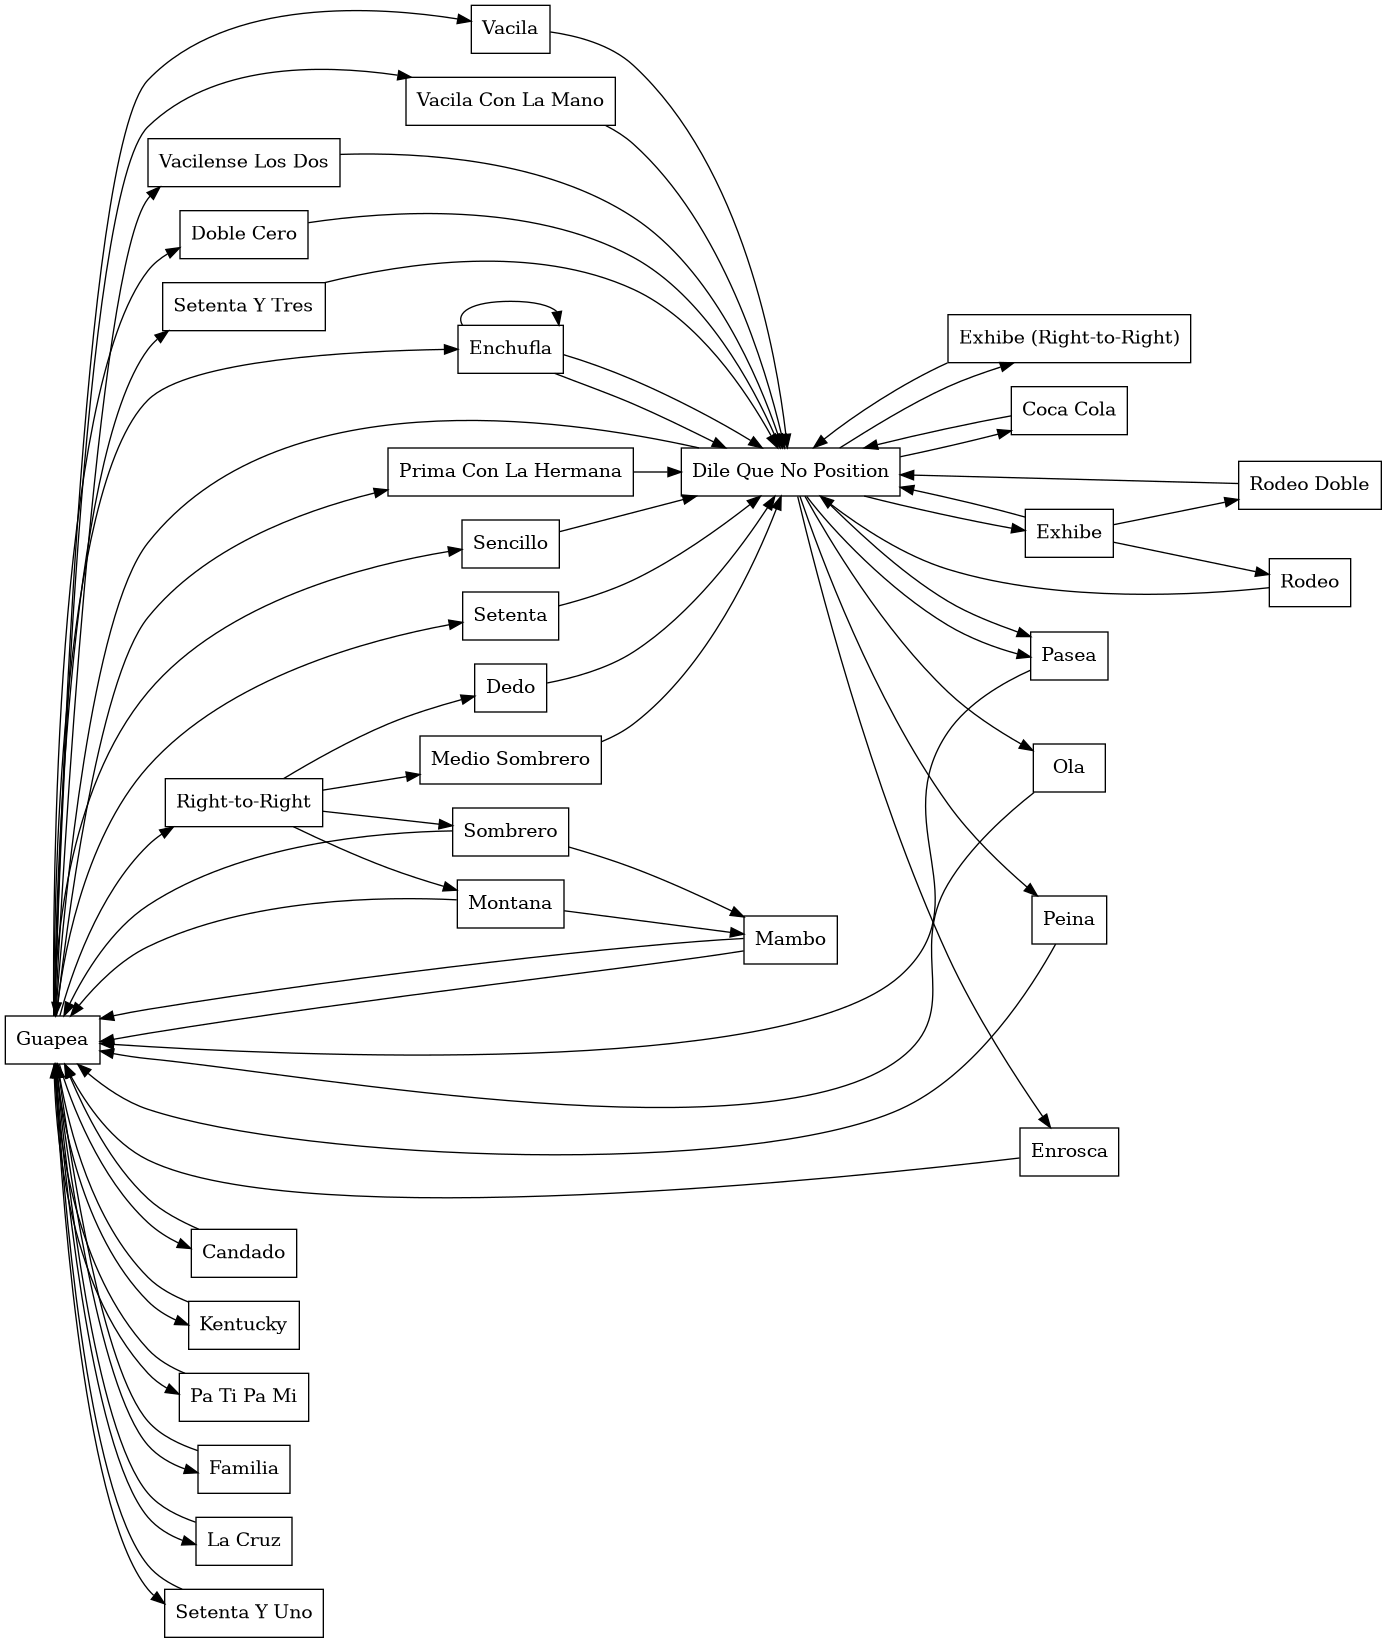
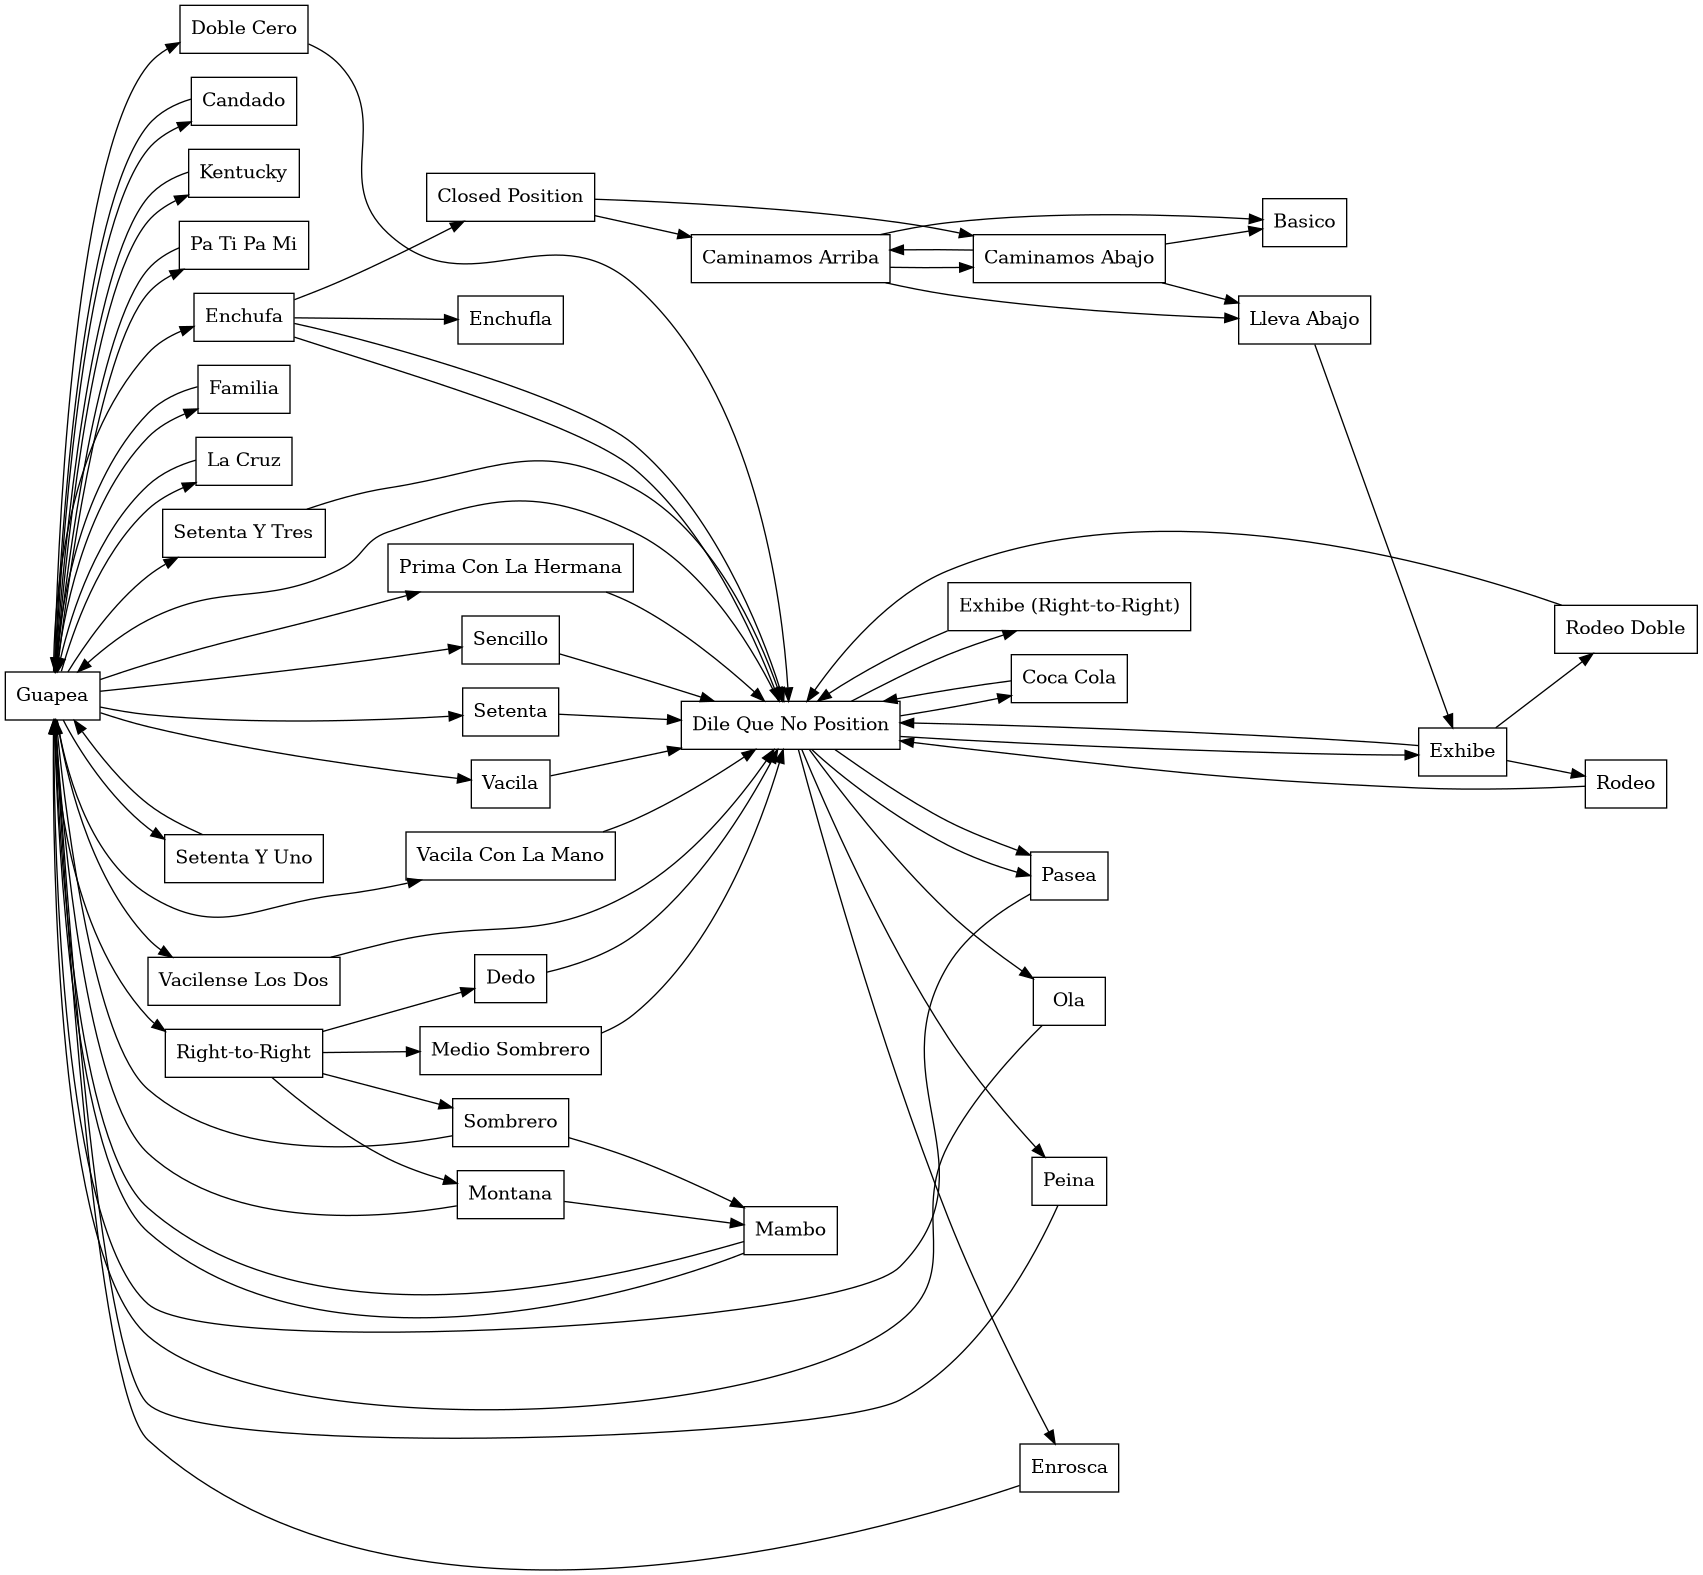
Added closed position

diff --git a/README.md b/README.md
@@ -12,9 +12,9 @@ xdot social.dot
 xdot social_all_dile_que_no_is_same.dot
 ```
 
-To generate the `social_all_dile_que_no_is_same.dot` file, run:
+To generate the `social_all_dile_que_no_is_same.dot` file and images, run:
 ```bash
-./all_dile_que_no_is_same.sh
+./update.sh
 ```
 
 ![](images/social.png)
